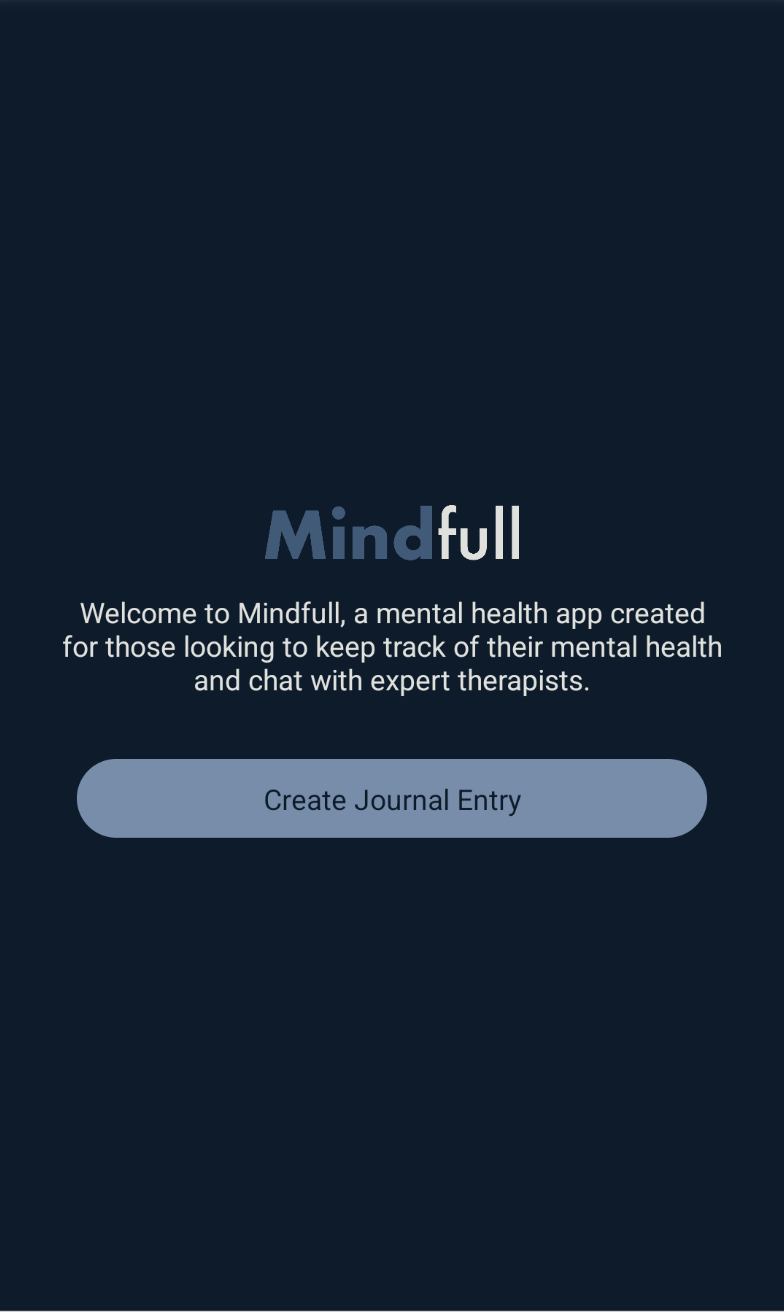
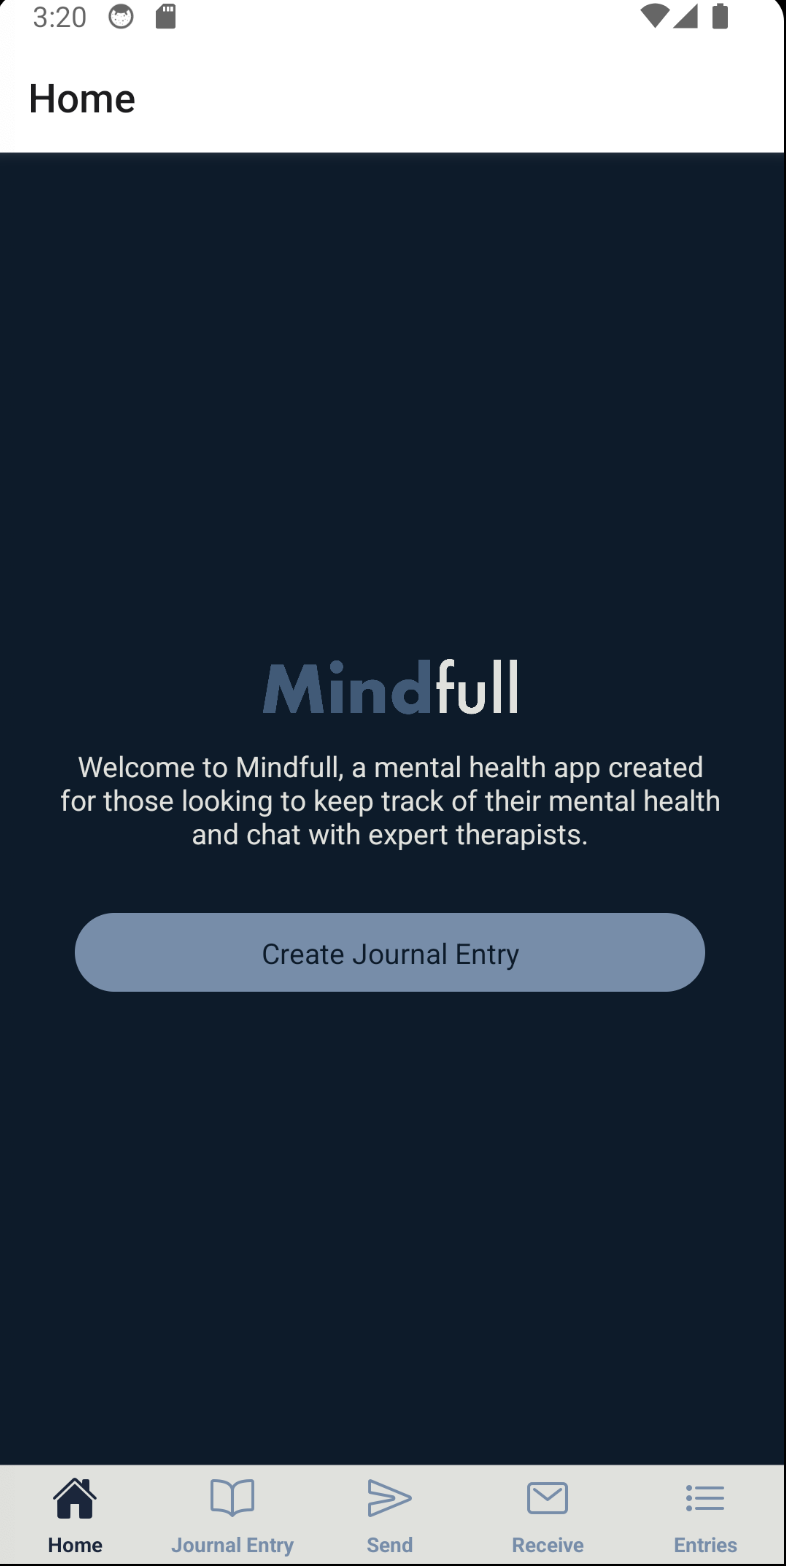
update readme and stuff

Changed region(s): [[0.0, 0.0, 1.0, 1.0], [0.0612, 0.375, 0.9184, 0.6562], [0.8878, 0.5938, 0.9184, 0.625]]

diff --git a/mindfull/App.js b/mindfull/App.js
@@ -1,22 +1,66 @@
 import React from 'react';
 import { NavigationContainer } from '@react-navigation/native';
 import { createBottomTabNavigator } from '@react-navigation/bottom-tabs';
+import { createStackNavigator } from '@react-navigation/stack';
+import Icon from '@expo/vector-icons/Ionicons';
 
 import HomePage from './Home';
 import SendMessage from './SendMessage';
 import ReceiveMessage from './ReceiveMessage';
 import JournalEntry from './JournalEntry';
+import PastEntries from './PastEntries';
+import EntryDetail from './EntryDetail'
 
 const Tab = createBottomTabNavigator();
+const Stack = createStackNavigator();
+
+const EntryStack = () => (
+  <Stack.Navigator>
+    <Stack.Screen name="View Past Entries" component={PastEntries} />
+    <Stack.Screen name="EntryDetail" component={EntryDetail} />
+  </Stack.Navigator>
+);
 
 function MyTabs() {
   return (
-    <Tab.Navigator initialRouteName="Home">
-      <Tab.Screen name="Home" component={HomePage} />
-      <Tab.Screen name="Journal Entry" component={JournalEntry} />
-      <Tab.Screen name="Send Message" component={SendMessage} />
-      <Tab.Screen name="Receive Message" component={ReceiveMessage} />
-    </Tab.Navigator>
+    <Tab.Navigator
+  initialRouteName="Home"
+  screenOptions={({route}) => ({
+    tabBarIcon: ({focused, color, size}) => {
+      let iconName;
+
+      if (route.name === 'Home') {
+        iconName = focused ? 'home' : 'home-outline';
+      } else if (route.name === 'Journal Entry') {
+        iconName = focused ? 'book' : 'book-outline';
+      } else if (route.name === 'Send') {
+        iconName = focused ? 'send' : 'send-outline';
+      } else if (route.name === 'Receive') {
+        iconName = focused ? 'mail' : 'mail-outline';
+      } else if (route.name === 'Entries') {
+        iconName = focused ? 'list' : 'list-outline';
+      }
+
+      return <Icon name={iconName} size={size - 2} color={color} />;
+    },
+    tabBarActiveTintColor: '#1B263B',
+    tabBarInactiveTintColor: '#778DA9',
+    tabBarLabelStyle: { fontWeight: 'bold', marginBottom: 3 },
+    tabBarStyle: [
+      {
+        display: 'flex',
+        backgroundColor: '#E0E1DD'
+      },
+      null
+    ]
+  })}
+>
+  <Tab.Screen name="Home" component={HomePage} />
+  <Tab.Screen name="Journal Entry" component={JournalEntry} />
+  <Tab.Screen name="Send" component={SendMessage} />
+  <Tab.Screen name="Receive" component={ReceiveMessage} />
+  <Tab.Screen name="Entries" component={EntryStack} />
+</Tab.Navigator>
   );
 }
 
@@ -27,4 +71,3 @@ export default function App() {
     </NavigationContainer>
   );
 }
-

diff --git a/mindfull/PastEntries.js b/mindfull/PastEntries.js
@@ -1,0 +1,73 @@
+import React, { useEffect, useState } from 'react';
+import { View, Text, FlatList, TouchableOpacity, StyleSheet } from 'react-native';
+import axios from 'axios';
+import moment from 'moment';
+
+const Item = ({ id, feeling, timestamp }) => {
+const formattedTimestamp = moment(timestamp).format('MM-DD-YYYY');
+  
+    return (
+        <TouchableOpacity style={styles.item} onPress={() => navigation.navigate('EntryDetail', { id: id })}>
+          <Text style={styles.title}>Feeling: {feeling}</Text>
+          <Text style={styles.date}>Date: {formattedTimestamp}</Text>
+        </TouchableOpacity>
+      );
+    };
+
+const PastEntries = ({ navigation }) => {
+  const [entries, setEntries] = useState([]);
+
+  useEffect(() => {
+    axios.get('http://node.cci.drexel.edu:9378/api/journals')
+      .then(response => {
+        setEntries(response.data);
+      })
+      .catch(error => {
+        console.error(error);
+      });
+  }, []);
+
+  const Item = ({ id, feeling, timestamp }) => (
+    <TouchableOpacity style={styles.item} onPress={() => navigation.navigate('EntryDetail', { id: id })}>
+      <Text style={styles.title}> {feeling}</Text>
+      <Text style={styles.date}> {timestamp}</Text>
+    </TouchableOpacity>
+  );
+
+  const renderItem = ({ item }) => (
+    <Item id={item.EntryId} feeling={item.Feeling} timestamp={item.Timestamp} />
+  );
+
+  return (
+    <View style={styles.container}>
+      <FlatList
+        data={entries}
+        renderItem={renderItem}
+        keyExtractor={item => item.EntryId.toString()}
+      />
+    </View>
+  );
+};
+
+const styles = StyleSheet.create({
+    container: {
+      flex: 1,
+      backgroundColor: '#E0E1DD'
+    },
+    item: {
+      borderBottomColor: '#778DA9',
+      borderBottomWidth: 1,
+      padding: 10
+    },
+    title: {
+      color: '#1B263B',
+      fontSize: 18,
+      fontWeight: 'bold',
+    },
+    date: {
+      color: '#778DA9',
+      fontSize: 14
+    }
+  });
+
+export default PastEntries;

diff --git a/mindfull/EntryDetail.js b/mindfull/EntryDetail.js
@@ -1,0 +1,38 @@
+import React, { useState, useEffect } from 'react';
+import { View, Text, Button } from 'react-native';
+import axios from 'axios';
+
+
+const EntryDetail = ({ route, navigation }) => {
+  const { id } = route.params;
+  const [entry, setEntry] = useState(null);
+
+  useEffect(() => {
+    axios.get(`http://node.cci.drexel.edu:9378/api/journals/${EntryId}`)
+      .then(response => {
+        setEntry(response.data);
+      })
+      .catch(error => {
+        console.error(error);
+      });
+  }, []);
+
+  return (
+    <View style={{ flex: 1, alignItems: 'center', justifyContent: 'center' }}>
+      {entry ? (
+        <>
+          <Text style={{ fontSize: 24, fontWeight: 'bold' }}>Entry ID: {entry.EntryId}</Text>
+          <Text style={{ fontSize: 18, color: 'gray' }}>Feeling: {entry.Feeling}</Text>
+          <Text style={{ fontSize: 18, color: 'gray' }}>Timestamp: {entry.Timestamp}</Text>
+          <Text style={{ fontSize: 16 }}>Good Thing: {entry.GoodThing}</Text>
+          <Text style={{ fontSize: 16 }}>Bad Thing: {entry.BadThing}</Text>
+          <Button title="Close" onPress={() => navigation.goBack()} />
+        </>
+      ) : (
+        <Text>Loading...</Text>
+      )}
+    </View>
+  );  
+};
+
+export default EntryDetail;

diff --git a/mindfull/ReceiveMessage.js b/mindfull/ReceiveMessage.js
@@ -10,19 +10,9 @@ export default function ReceiveMessage() {
   }, []);
 
   const fetchMessages = () => {
-    axios.get('<http://node.cci.drexel.edu:9378/api/messages>')
+    axios.get('http://node.cci.drexel.edu:9378/api/messages')
       .then(response => {
-        const newMessages = [];
-        response.data.forEach((message, index) => {
-          newMessages.push(message);
-          if (index % 2 === 0) {
-            newMessages.push({
-              UserId: '5893',
-              Content: 'Lorem ipsum dolor sit amet, consectetur adipiscing elit.'
-            });
-          }
-        });
-        setMessages(newMessages);
+        setMessages(response.data);
       })
       .catch(() => {
         Alert.alert('Error', 'Could not fetch messages');
@@ -64,7 +54,7 @@ export default function ReceiveMessage() {
       padding: 10,
       margin: 10,
       borderRadius: 20,
-      width: '70%',
+      width: '80%',
       flexGrow: 1,
     },
     messageText: {

diff --git a/mindfull/SendMessage.js b/mindfull/SendMessage.js
@@ -6,17 +6,22 @@ function SendMessage() {
   const [message, setMessage] = useState('');
 
   const sendMessage = () => {
-    axios
-      .post('http://node.cci.drexel.edu:9378/api/messages', {
+    axios.post('http://node.cci.drexel.edu:9378/api/messages', {
         content: message,
         UserId: '1123',
       })
       .then(() => {
-        Alert.alert('Success', 'Message sent');
+        return axios.post('http://node.cci.drexel.edu:9378/api/messages', {
+          content: "Lorem ipsum dolor sit amet, consectetur adipiscing elit.",
+          UserId: '3820',
+        });
+      })
+      .then(() => {
+        Alert.alert('Success', 'Messages sent');
         setMessage('');
       })
       .catch(() => {
-        Alert.alert('Error', 'Could not send message');
+        Alert.alert('Error', 'Could not send messages');
       });
   };
 
